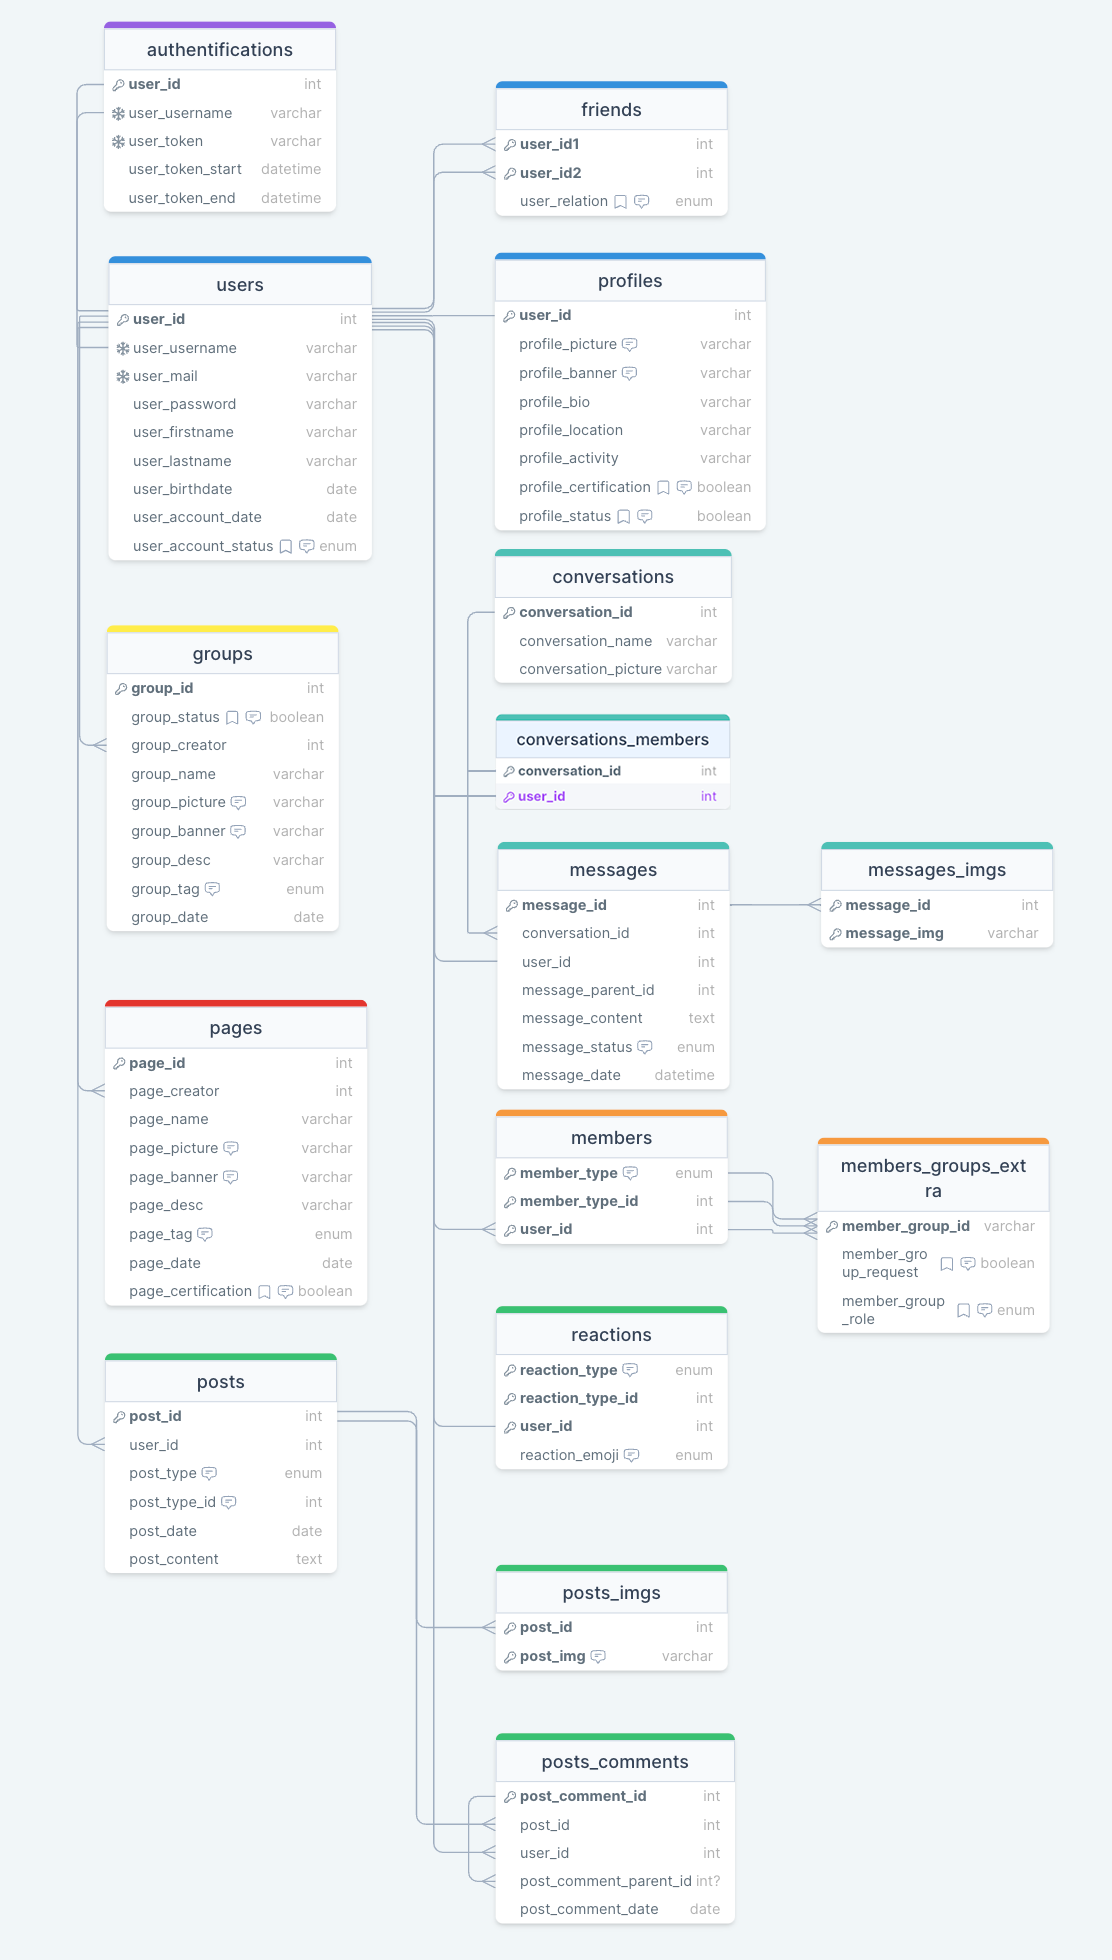
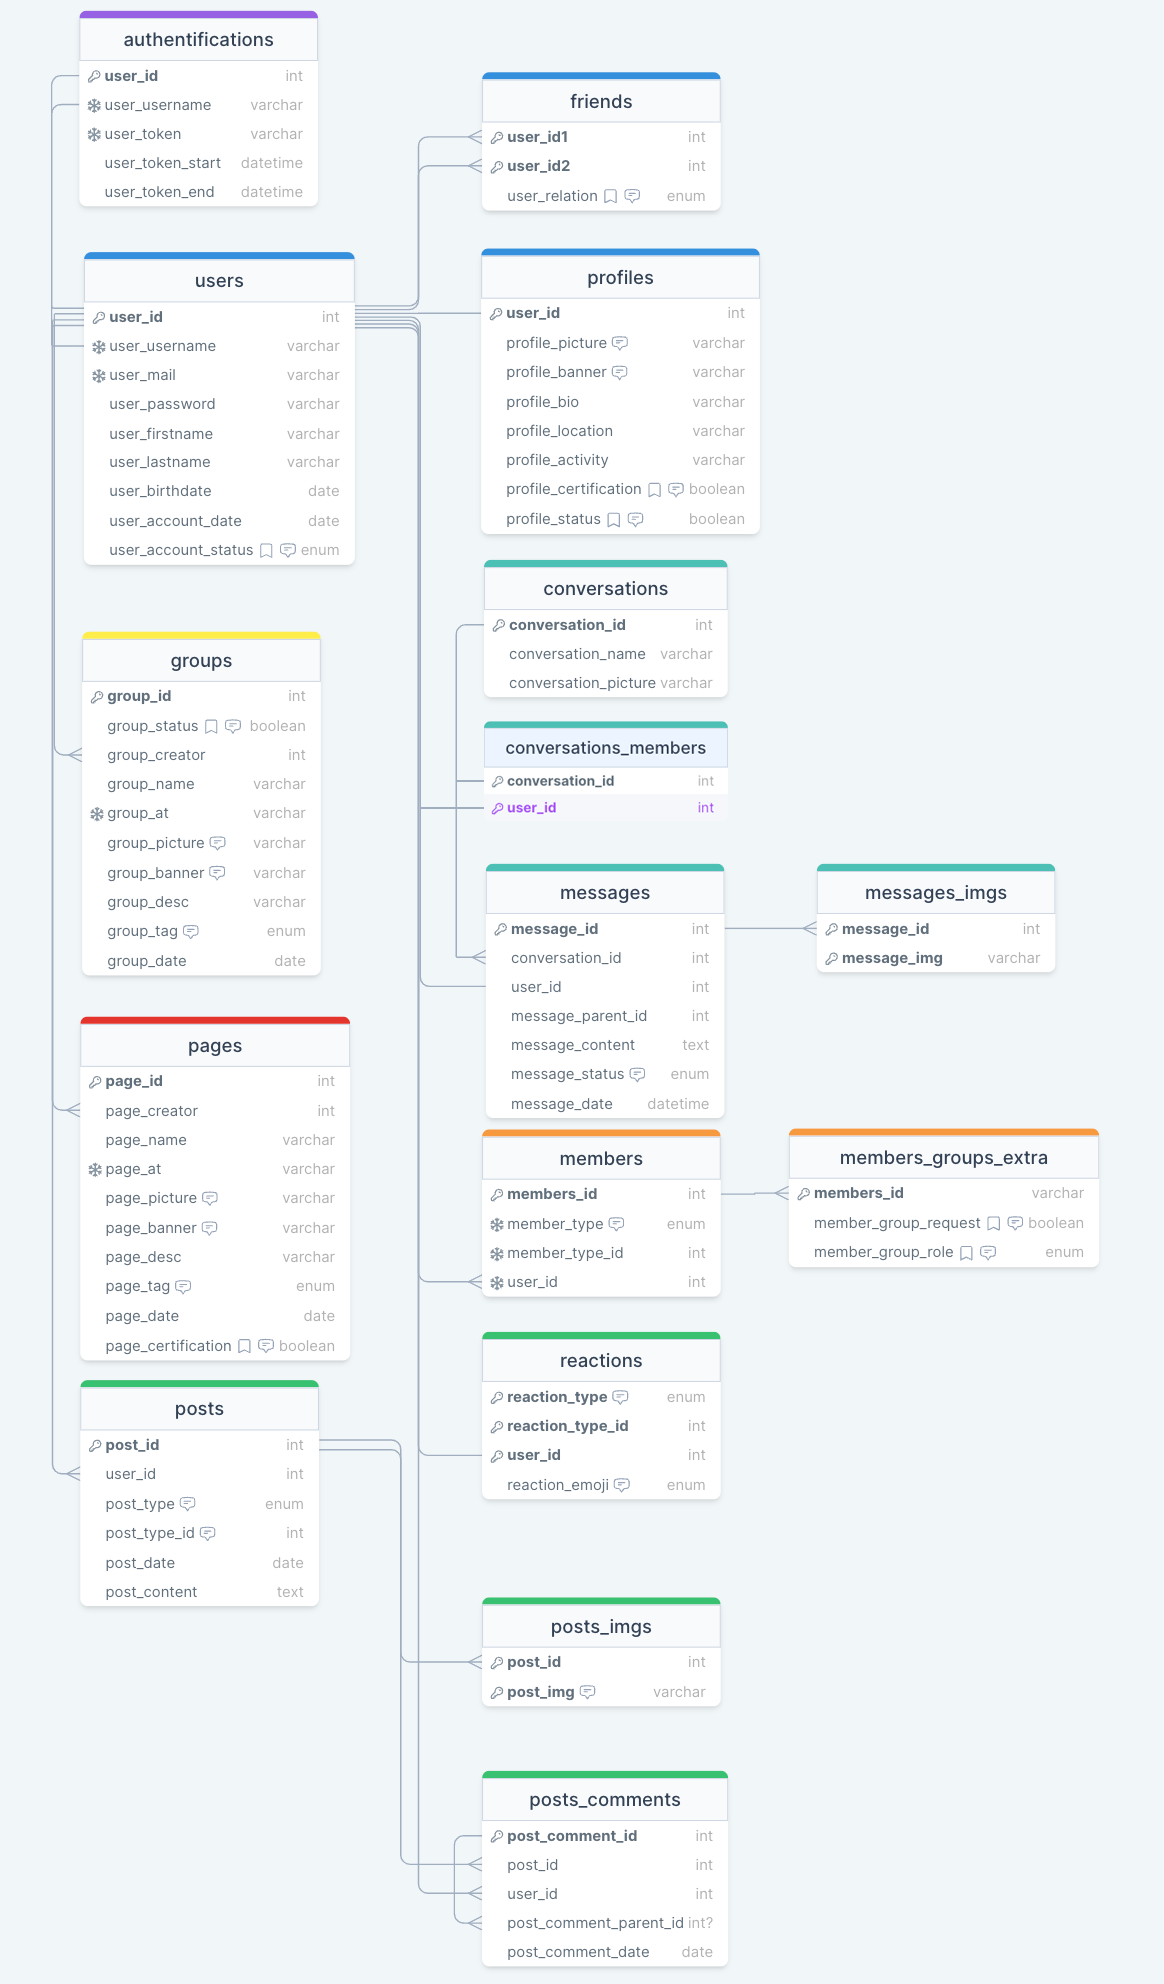
add: DB

diff --git a/source.md b/source.md
@@ -7,5 +7,159 @@ CREATE DATABASE UniLink;
 
 USE UNILINK;
 
+CREATE TABLE authentifications (
+  user_id INT PRIMARY KEY,
+  user_username VARCHAR(255) NOT NULL,
+  user_token VARCHAR(255) NOT NULL UNIQUE,
+  user_token_start DATE DEFAULT CURRENT_DATE NOT NULL,
+  user_token_end DATE NOT NULL DEFAULT (CURRENT_DATE + INTERVAL 30 DAY),
+  FOREIGN KEY (user_id) REFERENCES users(user_id),
+  FOREIGN KEY (user_username) REFERENCES users(user_username)
+);
 
+CREATE TABLE users (
+  user_id INT PRIMARY KEY AUTO_INCREMENT,
+  user_username VARCHAR(255) NOT NULL UNIQUE,
+  user_mail VARCHAR(255) NOT NULL UNIQUE,
+  user_password VARCHAR(255) NOT NULL,
+  user_firstname VARCHAR(255) NOT NULL,
+  user_lastname VARCHAR(255) NOT NULL,
+  user_birthdate DATE NOT NULL,
+  user_account_date DATE DEFAULT CURRENT_DATE NOT NULL,
+  user_account_status ENUM('disable', 'waiting', 'valid') DEFAULT 'waiting' NOT NULL
+);
+
+CREATE TABLE profiles (
+  user_id INT PRIMARY KEY,
+  profile_picture VARCHAR(255) NOT NULL,
+  profile_banner VARCHAR(255) NOT NULL,
+  profile_bio VARCHAR(255),
+  profile_location VARCHAR(255),
+  profile_activity VARCHAR(255),
+  profile_certification BOOLEAN NOT NULL DEFAULT 0,
+  profile_status BOOLEAN NOT NULL DEFAULT 1,
+  FOREIGN KEY (user_id) REFERENCES users(user_id)
+);
+
+CREATE TABLE friends (
+  user_id1 INT NOT NULL,
+  user_id2 INT NOT NULL,
+  user_relation ENUM('waiting', 'blocked', 'friend') NOT NULL DEFAULT 'waiting',
+  PRIMARY KEY (user_id1, user_id2),
+  FOREIGN KEY (user_id1) REFERENCES users(user_id),
+  FOREIGN KEY (user_id2) REFERENCES users(user_id)
+);
+
+CREATE TABLE groups (
+  group_id INT PRIMARY KEY AUTO_INCREMENT,
+  group_status BOOLEAN NOT NULL DEFAULT 0,
+  group_creator INT NOT NULL,
+  group_at VARCHAR(255) NOT NULL UNIQUE,
+  group_name VARCHAR(255) NOT NULL,
+  group_picture VARCHAR(255),
+  group_banner VARCHAR(255),
+  group_desc VARCHAR(255),
+  group_tag SET('tech', 'web', 'design', '3D'),
+  group_date DATE DEFAULT CURRENT_DATE NOT NULL,
+  FOREIGN KEY (group_creator) REFERENCES users(user_id)
+);
+
+CREATE TABLE pages (
+  page_id INT PRIMARY KEY AUTO_INCREMENT,
+  page_creator INT NOT NULL,
+  page_at VARCHAR(255) NOT NULL UNIQUE,
+  page_name VARCHAR(255) NOT NULL,
+  page_picture VARCHAR(255),
+  page_banner VARCHAR(255),
+  page_desc VARCHAR(255),
+  page_tag SET('tech', 'web', 'design', '3D'),
+  page_date DATE DEFAULT CURRENT_DATE NOT NULL,
+  page_certification BOOLEAN NOT NULL DEFAULT 0,
+  FOREIGN KEY (page_creator) REFERENCES users(user_id)
+);
+
+CREATE TABLE members (
+  member_id INT AUTO_INCREMENT PRIMARY KEY NOT NULL,
+  member_type ENUM('group', 'page') NOT NULL,
+  member_type_id INT NOT NULL,
+  user_id INT NOT NULL,
+  UNIQUE KEY member_unique (user_id, member_type, member_type_id),
+  FOREIGN KEY (user_id) REFERENCES users(user_id)
+);
+
+CREATE TABLE members_groups_extra (
+  member_id INT PRIMARY KEY NOT NULL,
+  member_group_request ENUM('waiting', 'blocked', 'accept') NOT NULL DEFAULT 'waiting',
+  member_group_role ENUM('admin', 'member', 'creator') NOT NULL DEFAULT 'member',
+  FOREIGN KEY (member_id) REFERENCES members(member_id)
+);
+
+CREATE TABLE posts (
+  post_id INT AUTO_INCREMENT PRIMARY KEY NOT NULL,
+  user_id INT NOT NULL,
+  post_type ENUM('group', 'page', 'profile') NOT NULL,
+  post_type_id INT NOT NULL,
+  post_date DATE DEFAULT CURRENT_DATE NOT NULL,
+  post_content TEXT NOT NULL,
+  FOREIGN KEY (user_id) REFERENCES users(user_id)
+);
+
+CREATE TABLE posts_imgs (
+  post_id INT NOT NULL,
+  post_img VARCHAR(255) NOT NULL,
+  PRIMARY KEY (post_id, post_img),
+  FOREIGN KEY (post_id) REFERENCES posts(post_id)
+);
+
+CREATE TABLE posts_comments (
+  post_comment_id INT PRIMARY KEY AUTO_INCREMENT NOT NULL,
+  post_id INT NOT NULL,
+  user_id INT NOT NULL,
+  post_comment_parent_id INT,
+  post_comment_date DATE DEFAULT CURRENT_DATE NOT NULL,
+  FOREIGN KEY (post_id) REFERENCES posts(post_id),
+  FOREIGN KEY (user_id) REFERENCES users(user_id)
+);
+
+CREATE TABLE reactions (
+  reaction_type ENUM('group', 'page', 'profil') NOT NULL,
+  reaction_type_id INT NOT NULL,
+  user_id INT NOT NULL,
+  reaction_emoji ENUM('react1', 'react2', 'react3', 'react4', 'react5') NOT NULL,
+  PRIMARY KEY (reaction_type, reaction_type_id, user_id),
+  FOREIGN KEY (user_id) REFERENCES users(user_id)
+);
+
+CREATE TABLE conversations (
+  conversation_id PRIMARY KEY INT AUTO_INCREMENT NOT NULL,
+  conversation_name VARCHAR(255) NOT NULL,
+  conversation_picture VARCHAR(255) NOT NULL
+);
+
+CREATE TABLE conversations_members (
+  conversation_id INT NOT NULL,
+  user_id INT NOT NULL,
+  PRIMARY KEY (conversation_id, user_id),
+  FOREIGN KEY (conversation_id) REFERENCES conversations(conversation_id),
+  FOREIGN KEY (user_id) REFERENCES users(user_id)
+);
+
+CREATE TABLE messages (
+  message_id INT AUTO_INCREMENT PRIMARY KEY NOT NULL,
+  conversation_id INT NOT NULL,
+  user_id INT NOT NULL,
+  message_parent_id INT DEFAULT NULL,
+  message_content TEXT NOT NULL,
+  message_status ENUM('send', 'see') NOT NULL DEFAULT 'send',
+  message_date DATE DEFAULT CURRENT_DATE NOT NULL,
+  FOREIGN KEY (conversation_id) REFERENCES conversations(conversation_id),
+  FOREIGN KEY (user_id) REFERENCES users(user_id)
+);
+
+CREATE TABLE messages_imgs (
+  message_id INT NOT NULL,
+  message_img VARCHAR(255) NOT NULL,
+  PRIMARY KEY (message_id, message_img),
+  FOREIGN KEY (message_id) REFERENCES messages(message_id)
+);
 ```
